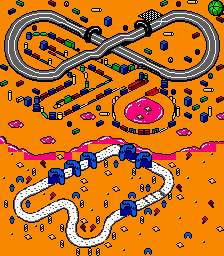
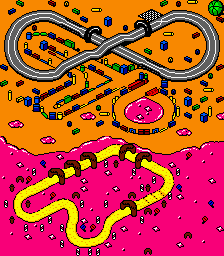
Export DMG warning screens and palette swaps
Add exports and manifests for both games' monochrome warning screens. Render Daisy's lower palette swap in world maps and verify its palette-loading handler.

diff --git a/tools/export_screens.py b/tools/export_screens.py
@@ -11,6 +11,7 @@ import json
 import re
 from dataclasses import dataclass
 from pathlib import Path
+from PIL import Image
 from maps import ROOT, read_rom, render_tiles
 
 def offset(bank, address):
@@ -52,11 +53,29 @@ class Parts:
     attrs: bytes
     gfx: list
     palette: int
+    # Optional mid-frame palette swap: from tile row `split` down, the BG
+    # palettes listed in `slots` take the 4 palettes stored at `lower`.
+    lower: int = None
+    split: int = None
+    slots: tuple = ()
 
     def render(self, rom):
-        return render_tiles(self.width, self.height,
-                            interleave(self.ids, self.attrs), self.gfx,
-                            colors(rom, self.palette))
+        pairs=interleave(self.ids, self.attrs)
+        base=colors(rom, self.palette)
+        if self.lower is None:
+            return render_tiles(self.width, self.height, pairs, self.gfx, base)
+        swapped=list(base)
+        extra=colors(rom, self.lower)
+        for n, slot in enumerate(self.slots):
+            swapped[slot*4:slot*4+4]=extra[n*4:n*4+4]
+        cut=self.split*self.width*2
+        top=render_tiles(self.width, self.split, pairs[:cut], self.gfx, base)
+        rest=render_tiles(self.width, self.height-self.split, pairs[cut:],
+                          self.gfx, swapped)
+        image=Image.new("RGB", (self.width*8, self.height*8))
+        image.paste(top, (0, 0))
+        image.paste(rest, (0, self.split*8))
+        return image
 
 # MRA world maps, reached from the train station. Hard-coded loaders in bank 0a.
 WORLDS=[
@@ -71,6 +90,15 @@ PLANES=re.compile(rb"\x06(.)\x21(..)\x11\x00\xd0\x3e(.)\xe0\x94\x0e\x00"
 ATTRS=re.compile(rb"\x21(..)\x11\x00\xd4", re.S)
 TILES=re.compile(rb"\x21(..)\x11\x00\xd0\x3e(.)\x06(.)\x0e(.)\xcd\x82\x1f", re.S)
 PALETTE=re.compile(rb"\x06\x08\x11(..)\xcd\x47\x31", re.S)
+# Second palette set (Daisy's map only): 0a:5519 fades 4 palettes into WRAM
+# bank 3 d000 (LD B,4 / LD HL,d000 / LD DE,xxxx / CALL 30d8).
+LOWER=re.compile(rb"\x06\x04\x21\x00\xd0\x11(..)\xcd\xd8\x30", re.S)
+# The STAT handler (00:1445 -> 0a:55be) fires at LYC = 88 - SCY, i.e. at map
+# line 0x88, and copies those 4 palettes into BG palettes 0, 1, 2 and 4
+# (BCPS 80, then a0). Map row 17 only uses palette 7, so the swap shows from
+# tile row 18 on.
+LOWER_ROW=0x88//8
+LOWER_SLOTS=(0, 1, 2, 4)
 
 def mra_worlds(rom):
     for n, (entry, name) in enumerate(WORLDS, 1):
@@ -89,6 +117,8 @@ def mra_worlds(rom):
             gfx[wram-1]=copy_tiles(rom, bank, address, count or 256)
             sources[wram-1]=offset(bank, address)
         palette=offset(0x0a, le16(PALETTE.search(code).group(1), 0))
+        lower=LOWER.search(code)
+        lower=offset(0x0a, le16(lower.group(1), 0)) if lower else None
         size=width*height
         ids, attrs=rom[ids_at:ids_at+size], rom[attrs_at:attrs_at+size]
         bank1=sum(1 for a in attrs if a&8)
@@ -100,8 +130,12 @@ def mra_worlds(rom):
                    loader=f"0a:{entry:04x}", width=width, height=height,
                    tile_ids=f"0x{ids_at:06x}", attributes=f"0x{attrs_at:06x}",
                    graphics=[f"0x{s:06x}" if s is not None else None for s in sources],
-                   palette=f"0x{palette:06x}"), \
-            Parts(width, height, ids, attrs, gfx, palette)
+                   palette=f"0x{palette:06x}",
+                   **(dict(lower_palette=f"0x{lower:06x}",
+                           lower_from_row=LOWER_ROW,
+                           lower_slots=list(LOWER_SLOTS)) if lower else {})), \
+            Parts(width, height, ids, attrs, gfx, palette,
+                  *((lower, LOWER_ROW, LOWER_SLOTS) if lower else ()))
 
 # MSUSA course cards, loader 12:52b7. Card order is ce5e (west to east on the
 # US map), not the race catalog order. 20-22 are the French and German name

diff --git a/tools/export_dmg_warning.py b/tools/export_dmg_warning.py
@@ -1,0 +1,63 @@
+"""Export the "Game Boy Color only" warning screen shown on a monochrome Game Boy.
+
+Both games check for a Game Boy Color at start-up. On any other model they draw
+this plain 4-shade screen instead of booting. It is stored raw: a 20x18 map of
+tile ids (one byte per cell, no attributes), followed directly by the tiles
+(2bpp, ids 0.. at 0x9000 with signed addressing, BGP e4 = identity shades).
+
+    MRA    map 0x224b0 (08:64b0), tiles 0x21ed0 (08:5ed0), 94 tiles
+    MSUSA  map 0x13068 (04:7068), tiles 0x131d0 (04:71d0), 91 tiles
+
+The tile data comes just before the map in MRA and just after it in MSUSA.
+"""
+import argparse
+import hashlib
+import json
+from pathlib import Path
+from PIL import Image
+from maps import ROOT, read_rom
+
+SHADES=[255, 153, 85, 0]  # BGP e4 with the grays a PyBoy DMG capture shows
+SCREENS=[
+    ("mra", "MRA_warning", 0x224b0, 0x21ed0, 94,
+     "Mickey's Racing Adventure"),
+    ("msusa", "MSUSA_warning", 0x13068, 0x131d0, 91,
+     "Mickey's Speedway USA"),
+]
+
+def render(rom, map_at, tiles_at, count, width=20, height=18):
+    ids=rom[map_at:map_at+width*height]
+    assert max(ids)<count, "map refers past the tile data"
+    image=Image.new("L", (width*8, height*8))
+    px=image.load()
+    for cell, tile in enumerate(ids):
+        raw=rom[tiles_at+tile*16:tiles_at+tile*16+16]
+        for y in range(8):
+            for x in range(8):
+                v=(raw[y*2]>>(7-x)&1)|(raw[y*2+1]>>(7-x)&1)<<1
+                px[cell%width*8+x, cell//width*8+y]=SHADES[v]
+    return image
+
+def main():
+    parser=argparse.ArgumentParser(description=__doc__.splitlines()[0])
+    parser.add_argument("--rom-dir", type=Path, default=ROOT/"local")
+    parser.add_argument("--output", type=Path, default=ROOT/"images/screens")
+    args=parser.parse_args()
+    dest=args.output/"DMG_warning"
+    dest.mkdir(parents=True, exist_ok=True)
+    manifest=[]
+    for n, (game, stem, map_at, tiles_at, count, name) in enumerate(SCREENS, 1):
+        rom=read_rom(game, args.rom_dir)
+        image=render(rom, map_at, tiles_at, count)
+        file=f"{n:02d}_{stem}.png"
+        image.save(dest/file)
+        manifest.append(dict(index=n, name=f"{name} (Game Boy Color required)",
+                             file=file, width=20, height=18,
+                             tile_ids=f"0x{map_at:06x}",
+                             graphics=f"0x{tiles_at:06x}", tile_count=count,
+                             sha256=hashlib.sha256((dest/file).read_bytes()).hexdigest()))
+        print(f"{file} {image.width}x{image.height}")
+    (dest/"manifest.json").write_text(json.dumps(manifest, indent=2)+"\n")
+
+if __name__=="__main__":
+    main()

diff --git a/tools/verify_screens.py b/tools/verify_screens.py
@@ -82,6 +82,29 @@ def check(name, memory, parts, rom, returned, plane, static_palette=None):
           f"plane={result['plane_mismatches']}", flush=True)
     return result
 
+def check_lower(machine, rom, parts):
+    # Daisy's map swaps BG palettes 0, 1, 2 and 4 part-way down the screen.
+    # 0a:5519 fades 4 palettes into WRAM bank 3 d000 (full brightness = the
+    # ROM bytes), and the STAT handler 0a:55be writes them to BCPD (BCPS 80
+    # for 12 words, then a0 for 4 words) at LYC = 88 - SCY (0a:55aa).
+    machine.reset()
+    memory=machine.p.memory
+    memory[0xc6ad]=255
+    machine.call(0x0a, 0x5519)
+    memory[0xff70]=3
+    buffer=bytes(memory[0xd000+i] for i in range(32))
+    arm=bytes.fromhex("3e45ea9ecf3e14ea9fcffa6ec1473e8890e045c9")  # 0a:55aa
+    ok=(buffer==rom[parts.lower:parts.lower+32]
+        and rom[0x295aa:0x295be]==arm
+        and rom[0x295d3:0x295d7]==bytes.fromhex("3e80e068")
+        and rom[0x29606:0x2960a]==bytes.fromhex("3ea0e068")
+        and parts.slots==(0, 1, 2, 4))
+    result=dict(name="Daisy's Wonderland lower palette swap", returned=True,
+                palette="WRAM d000 + STAT handler" if ok else None,
+                tile_mismatches=0, plane_mismatches=0, ok=ok)
+    print(f"{'ok  ' if ok else 'FAIL'} {result['name']}", flush=True)
+    return result
+
 def main():
     results=[]
     rom=read_rom("mra")
@@ -89,6 +112,8 @@ def main():
     for (entry, parts), (address, _) in zip(screens.mra_worlds(rom), screens.WORLDS):
         returned=run(machine, 0x0a, address)
         results.append(check(entry["name"], machine.p.memory, parts, rom, returned, bg_mismatches))
+        if parts.lower is not None:
+            results.append(check_lower(machine, rom, parts))
     machine.close()
 
     rom=read_rom("msusa")
